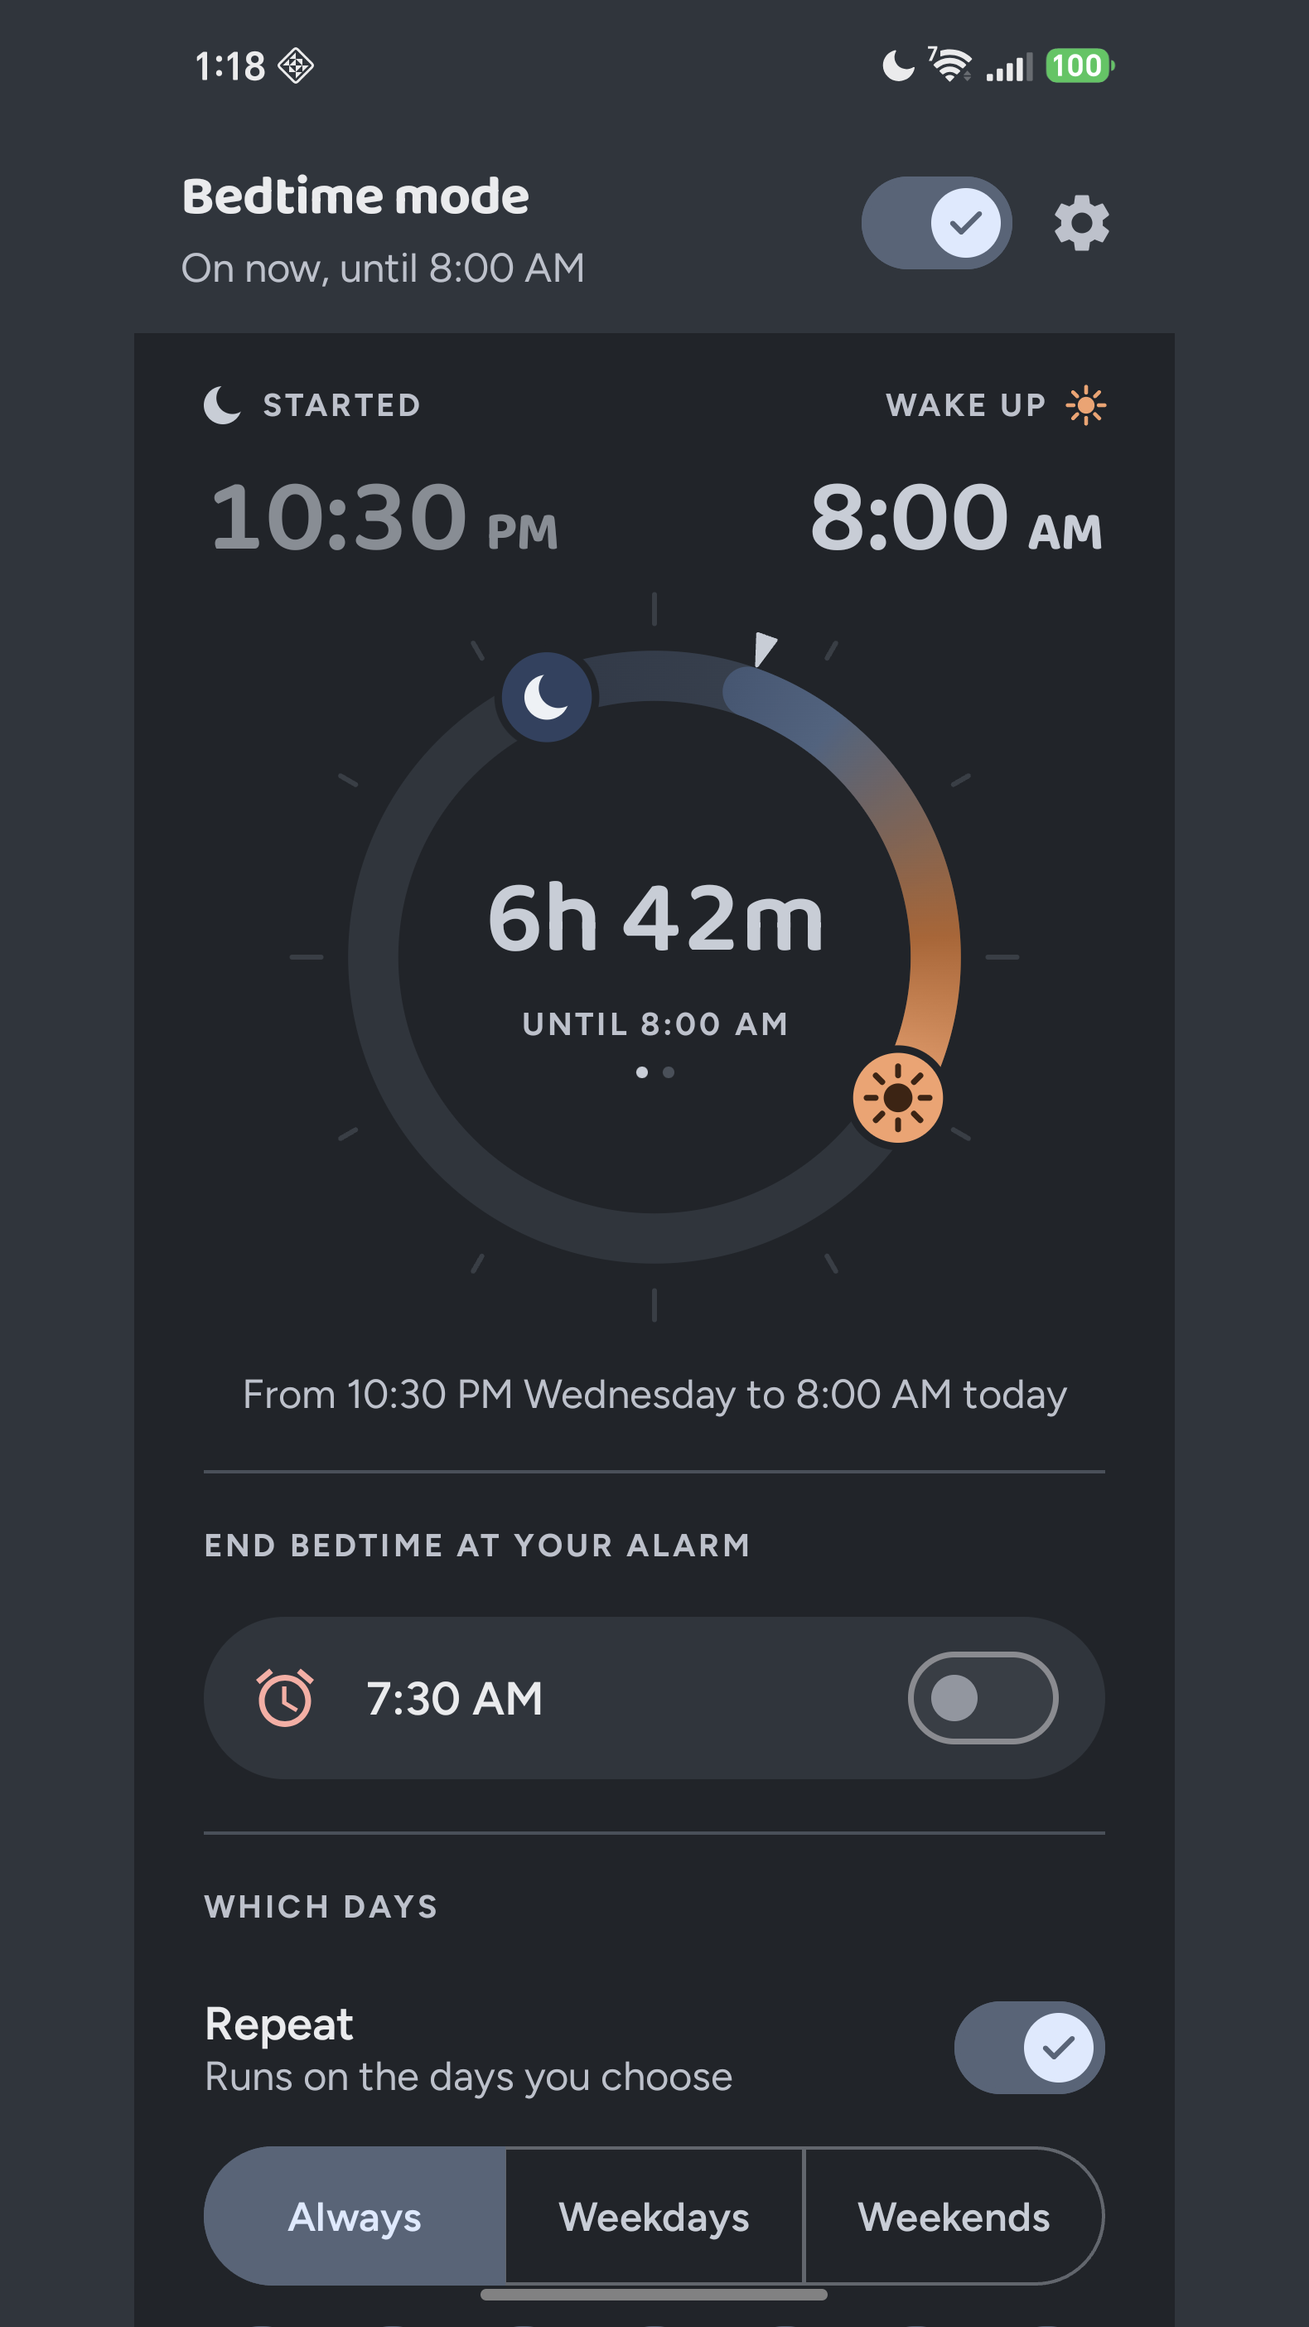
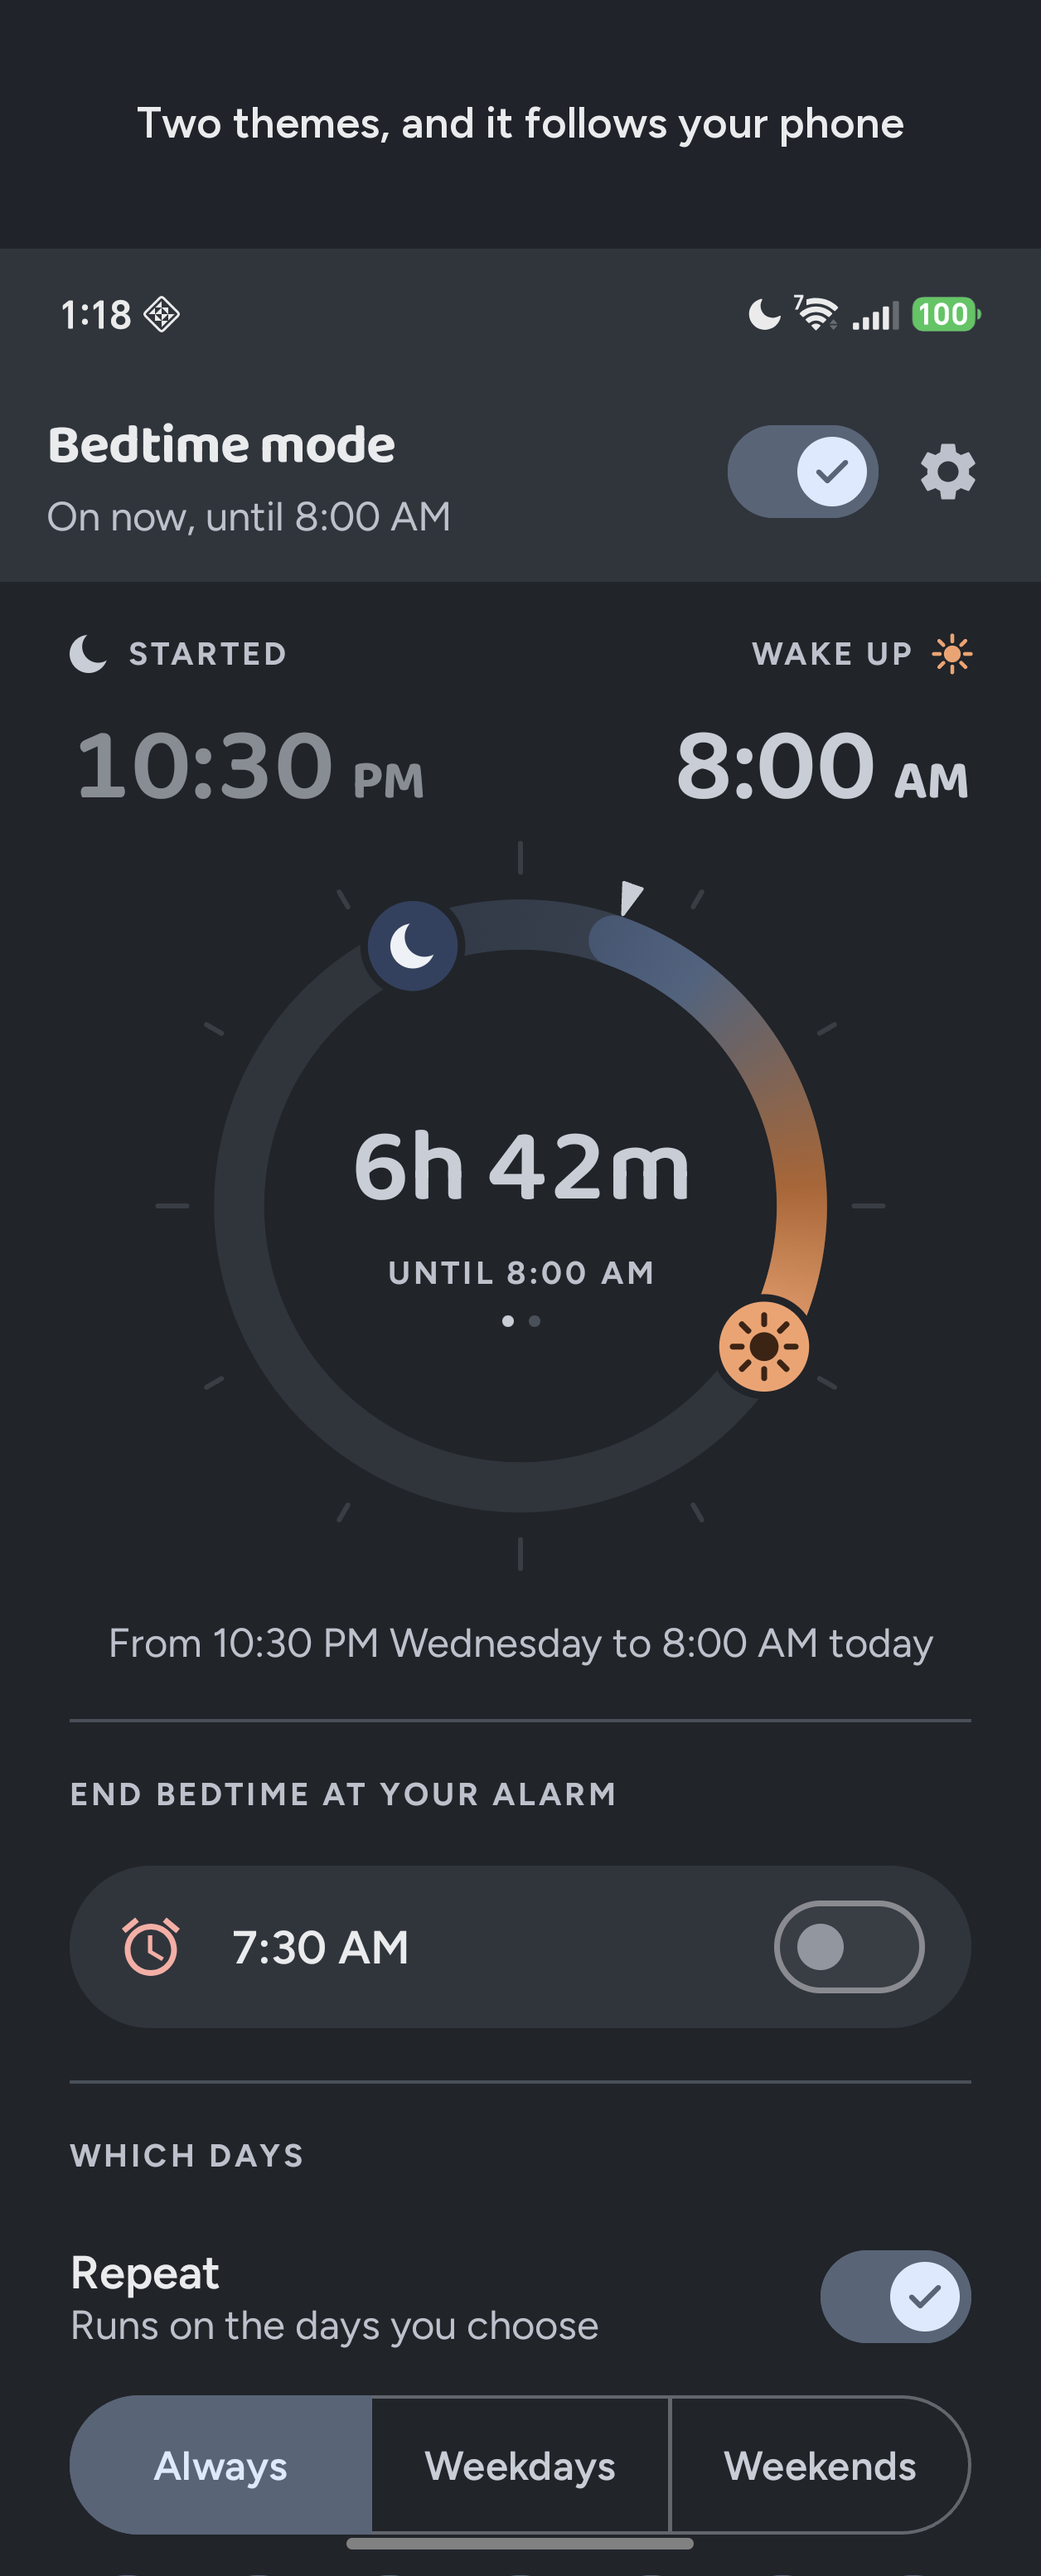
Tell testers which copy to install, and the carousel what it is showing
Two small things, both for people arriving from outside the repo.

The README warning is SCOPED, and the scope is the point. A blanket
"do not install from Releases" would be wrong: for everyone who is not
a closed-test volunteer, that APK is the real one and the only channel
there is. It is only wrong for testers, because a hand-installed copy
makes Play offer Open rather than Install - so they never join through
Play and it does not count - and if the GitHub build's versionCode is
at or above the tested one, Play has no update path at all. Both halves
are stated, because a warning that tells your actual users to avoid
your only distribution channel is worse than none.

Screenshots get a caption band and no device frame. The question a
store carousel leaves open is what the SCREEN is; nobody scrolling a
listing is wondering whether it is a phone. A bezel answers the
question nobody asked, encodes nothing true, and costs pixels that a
dial and a stack of rows actually need. One band colour across all
five, not each shot's own theme, so they read as a set.

They come out twice now. Play's hard rule is only 320-3840px per side,
which the captures already satisfy; 9:16 is guidance tied to
promotional placement. So the captioned set keeps the phone's own
aspect and a plain padded set stands by, which is cheaper than guessing
wrong. Neither crops.

diff --git a/tools/play_assets.py b/tools/play_assets.py
@@ -125,26 +125,85 @@ def build_feature():
     return dest
 
 
+# The README's order, which is also the order the store should tell it in: what
+# the night looks like, then what it does, then what you can change. The caption
+# says what the SCREEN is, because that is the question a carousel leaves open -
+# nobody scrolling a listing is wondering whether it is a phone.
+#
+# No device frame, deliberately. A bezel encodes nothing true and costs pixels,
+# and these screens are dense: a dial, a countdown and a stack of rows. Same
+# reason the app has no decorative structure - see the design note in CLAUDE.md.
+SHOTS = [
+    ('home.png',      'One window a night, dragged at either end'),
+    ('home-dark.png', 'Two themes, and it follows your phone'),
+    ('effects.png',   'Grey screen and dimmed wallpaper, where your phone allows it'),
+    ('allowed.png',   'Choose exactly what still gets through'),
+    ('settings.png',  'Theme, language, and the vendor screens that matter'),
+]
+
+BAND = 300          # caption band height, px
+CAP_SIZE = 52
+
+
+def _wrap(d, text, font, width):
+    words, lines, line = text.split(), [], ''
+    for w in words:
+        t = f'{line} {w}'.strip()
+        if d.textlength(t, font=font) <= width:
+            line = t
+        else:
+            lines.append(line); line = w
+    if line:
+        lines.append(line)
+    return lines
+
+
 def build_screenshots():
-    """Pad each capture out to 9:16. Never crop - see the module docstring."""
+    """Caption each capture. Also keep a plain 9:16 set as a fallback.
+
+    Two sets because the aspect ratio is unsettled. Play's hard rule is only
+    that each side is 320-3840px, which the captures already satisfy at
+    1256x2808; the 9:16 figure is guidance tied to promotional placement. So the
+    captioned set keeps the phone's own aspect and the plain padded set stands
+    by in case Console objects - which is cheaper than guessing wrong and
+    re-shooting.
+
+    Neither crops. The README's framing is what the app looks like.
+    """
     src = os.path.join(ROOT, 'docs', 'screenshots')
-    dst = os.path.join(OUT, 'screenshots')
-    os.makedirs(dst, exist_ok=True)
-    # The README's order, which is also the order the store should tell it in:
-    # what it looks like, then what it does, then what you can change.
-    order = ['home.png', 'home-dark.png', 'effects.png', 'allowed.png', 'settings.png']
-    for i, name in enumerate(order, start=1):
+    cap_dir = os.path.join(OUT, 'screenshots')
+    plain_dir = os.path.join(OUT, 'screenshots-plain-9x16')
+    os.makedirs(cap_dir, exist_ok=True)
+    os.makedirs(plain_dir, exist_ok=True)
+
+    font = figtree(CAP_SIZE, 600)
+    for i, (name, caption) in enumerate(SHOTS, start=1):
         im = Image.open(os.path.join(src, name)).convert('RGB')
         w, h = im.size
-        want = int(round(h * 9 / 16))
-        if want <= w:
-            out = im                       # already 9:16 or wider; leave it alone
-        else:
-            out = Image.new('RGB', (want, h), im.getpixel((0, 0)))
-            out.paste(im, ((want - w) // 2, 0))
-        p = os.path.join(dst, f'{i}.png')
+
+        # Captioned: a Dusk band above the shot, the same band on all five so
+        # they read as one set rather than following each screenshot's theme.
+        out = Image.new('RGB', (w, h + BAND), hx(SURFACE))
+        out.paste(im, (0, BAND))
+        d = ImageDraw.Draw(out)
+        lines = _wrap(d, caption, font, w - 160)
+        lh = CAP_SIZE * 1.32
+        y = (BAND - lh * len(lines)) / 2
+        for ln in lines:
+            d.text(((w - d.textlength(ln, font=font)) / 2, y), ln,
+                   font=font, fill=hx(ON_SURFACE))
+            y += lh
+        p = os.path.join(cap_dir, f'{i}.png')
         out.save(p)
-        print(p, out.size, f'({name})')
+        print(p, out.size, f'({name}) "{caption}"')
+
+        # Plain, padded to 9:16 from each capture's own corner colour, so a Dusk
+        # shot pads dark and a Dawn shot pads light.
+        want = int(round(h * 9 / 16))
+        pl = im if want <= w else Image.new('RGB', (want, h), im.getpixel((0, 0)))
+        if want > w:
+            pl.paste(im, ((want - w) // 2, 0))
+        pl.save(os.path.join(plain_dir, f'{i}.png'))
 
 
 if __name__ == '__main__':

diff --git a/README.md b/README.md
@@ -23,6 +23,17 @@ it — driven by exact alarms, so it fires with the app closed.
 
 </div>
 
+> [!IMPORTANT]
+> **Here for the Google Play closed test?** Install from the Play link you were
+> sent — **not** from [Releases](https://github.com/jemcik/Gloaming/releases). A
+> hand-installed copy makes Play offer *Open* rather than *Install*, so you never
+> join the test through Play and it does not count; and if the GitHub build's
+> `versionCode` is at or above the tested one, Play has no update path at all.
+> Already sideloaded it? Uninstall first, then use the link.
+>
+> **Everyone else:** Releases is the right place and the APK there is the real
+> one, signed with the project key.
+
 ## Why it exists
 
 Android's own bedtime mode is scheduled as a **WorkManager job**, and jobs are
@@ -354,6 +365,15 @@ gh release create 0.11 --target main --generate-notes --title 0.11
 tag, builds a signed release APK and attaches it to the GitHub Release — release
 assets are downloadable without a GitHub account, which workflow artifacts are
 not.
+
+The same run also builds a signed **App Bundle**, which is what Google Play
+requires and will not do without. That one is kept as a *workflow artifact*
+rather than a release asset, for the reason above read backwards: an `.aab`
+cannot be installed by anyone, so on a public page it is only an invitation to
+download the wrong file. Whoever uploads it to Play Console has a GitHub
+account by definition. Both artefacts come from one Gradle invocation and
+therefore one `versionCode`, and both are signed with the same key — verified
+on a real run, identical certificate.
 
 Published releases start at **0.7**, and **0.10** is current; the tags before
 that have no downloadable build behind them. If a pre-0.7 Gloaming is still on a

diff --git a/CLAUDE.md b/CLAUDE.md
@@ -376,10 +376,14 @@ is in DECISIONS.md.
     python3 tools/play_assets.py        the Play store assets into docs/play/.
                          Play refuses what the README needs: an alpha channel on
                          the icon. Same geometry, `mask=False`, and Play applies
-                         its own corner mask. Screenshots are PADDED to 9:16,
-                         never cropped - the README's framing is what the app
-                         looks like, and cropping to fit a store makes the two
-                         disagree
+                         its own corner mask. Screenshots come out TWICE -
+                         captioned at the phone's own aspect, and plain padded
+                         to 9:16 - because Play's hard rule is only 320-3840px
+                         per side and the 9:16 figure is guidance. Neither set
+                         crops: the README's framing is what the app looks like,
+                         and cropping to fit a store makes the two disagree.
+                         No device frames - a bezel encodes nothing true and
+                         costs pixels these screens need
     adb shell run-as com.jemcik.gloaming cat files/journal.log
 
 Unit tests run on **JDK 21**, pinned in `app/build.gradle.kts`. The reason —
